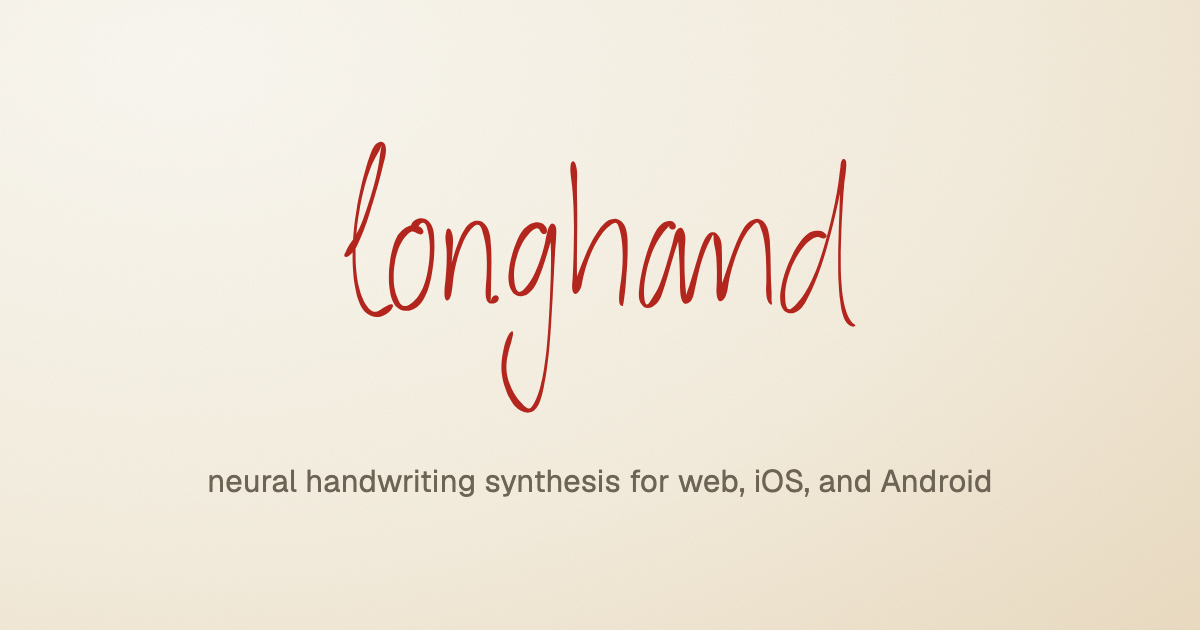
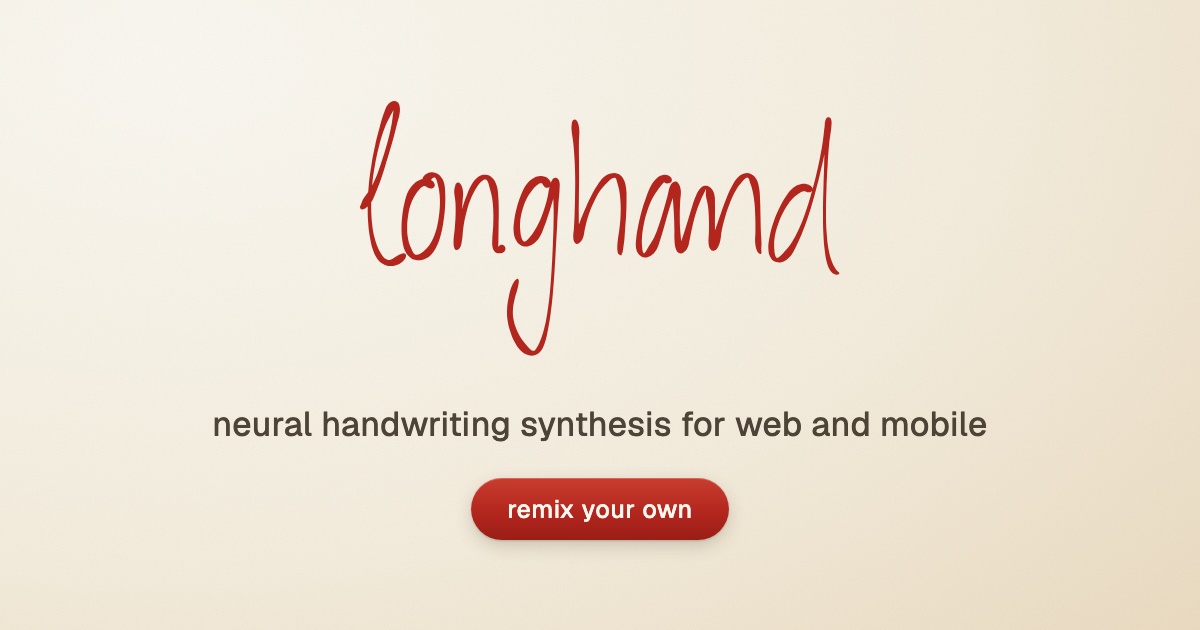
The share card asks you to remix your own

Changed region(s): [[0.1542, 0.1508, 0.8325, 0.6937], [0.1542, 0.7238, 0.8325, 0.8746]]

diff --git a/apps/web/scripts/gen-og.ts b/apps/web/scripts/gen-og.ts
@@ -33,7 +33,9 @@ const TAKE: SnippetParams = {
   style: 2,
   seed: 7,
   renderer: "ribbon",
-  thickness: 1,
+  // A touch heavier than the studio's boot thickness: the card is seen
+  // small, so the stroke needs a bit more meat.
+  thickness: 1.25,
   speed: 1,
   ink: "#b3261e",
   paper: null,
@@ -96,13 +98,28 @@ const html = `<!doctype html><meta charset="utf-8"><style>
     gap: 24px; padding: 60px 120px 72px;
   }
   .ink { color: #b3261e; width: 100%; display: flex; justify-content: center; }
-  .ink svg { width: 100%; max-width: 880px; max-height: 320px; }
-  p { font-size: 31px; letter-spacing: 0.01em; color: #6d6455; }
+  .ink svg { width: 100%; max-width: 880px; max-height: 300px; }
+  p { font-size: 34px; font-weight: 450; letter-spacing: 0.01em; color: #4d4437; }
+  .cta {
+    margin-top: 8px;
+    padding: 15px 36px;
+    border-radius: 999px;
+    background: linear-gradient(180deg, #c93d2f 0%, #b3261e 55%, #9a1e16 100%);
+    color: #fdf8f0;
+    font-size: 25px;
+    font-weight: 500;
+    letter-spacing: 0.02em;
+    box-shadow:
+      inset 0 1px 0 rgb(255 255 255 / 0.22),
+      0 1px 2px 0 oklch(0.35 0.04 80 / 0.2),
+      0 6px 18px -2px oklch(0.35 0.04 80 / 0.25);
+  }
 </style>
 <div class="grain"></div>
 <main>
   <div class="ink">${svg}</div>
-  <p>neural handwriting synthesis for web, iOS, and Android</p>
+  <p>neural handwriting synthesis for web and mobile</p>
+  <div class="cta">remix your own</div>
 </main>`;
 
 const browser = await chromium.launch();

diff --git a/apps/web/index.html b/apps/web/index.html
@@ -17,7 +17,7 @@
     <meta property="og:image" content="https://trylonghand.com/og.png" />
     <meta property="og:image:width" content="1200" />
     <meta property="og:image:height" content="630" />
-    <meta property="og:image:alt" content="longhand, handwritten in red ink on paper: neural handwriting synthesis for web, iOS, and Android" />
+    <meta property="og:image:alt" content="longhand, handwritten in red ink on paper: neural handwriting synthesis for web and mobile. Remix your own." />
     <meta name="twitter:card" content="summary_large_image" />
     <meta name="twitter:title" content="longhand" />
     <meta name="twitter:description" content="Neural handwriting synthesis for web and mobile. Generate animated ink with the SDK, or export stills and animations." />